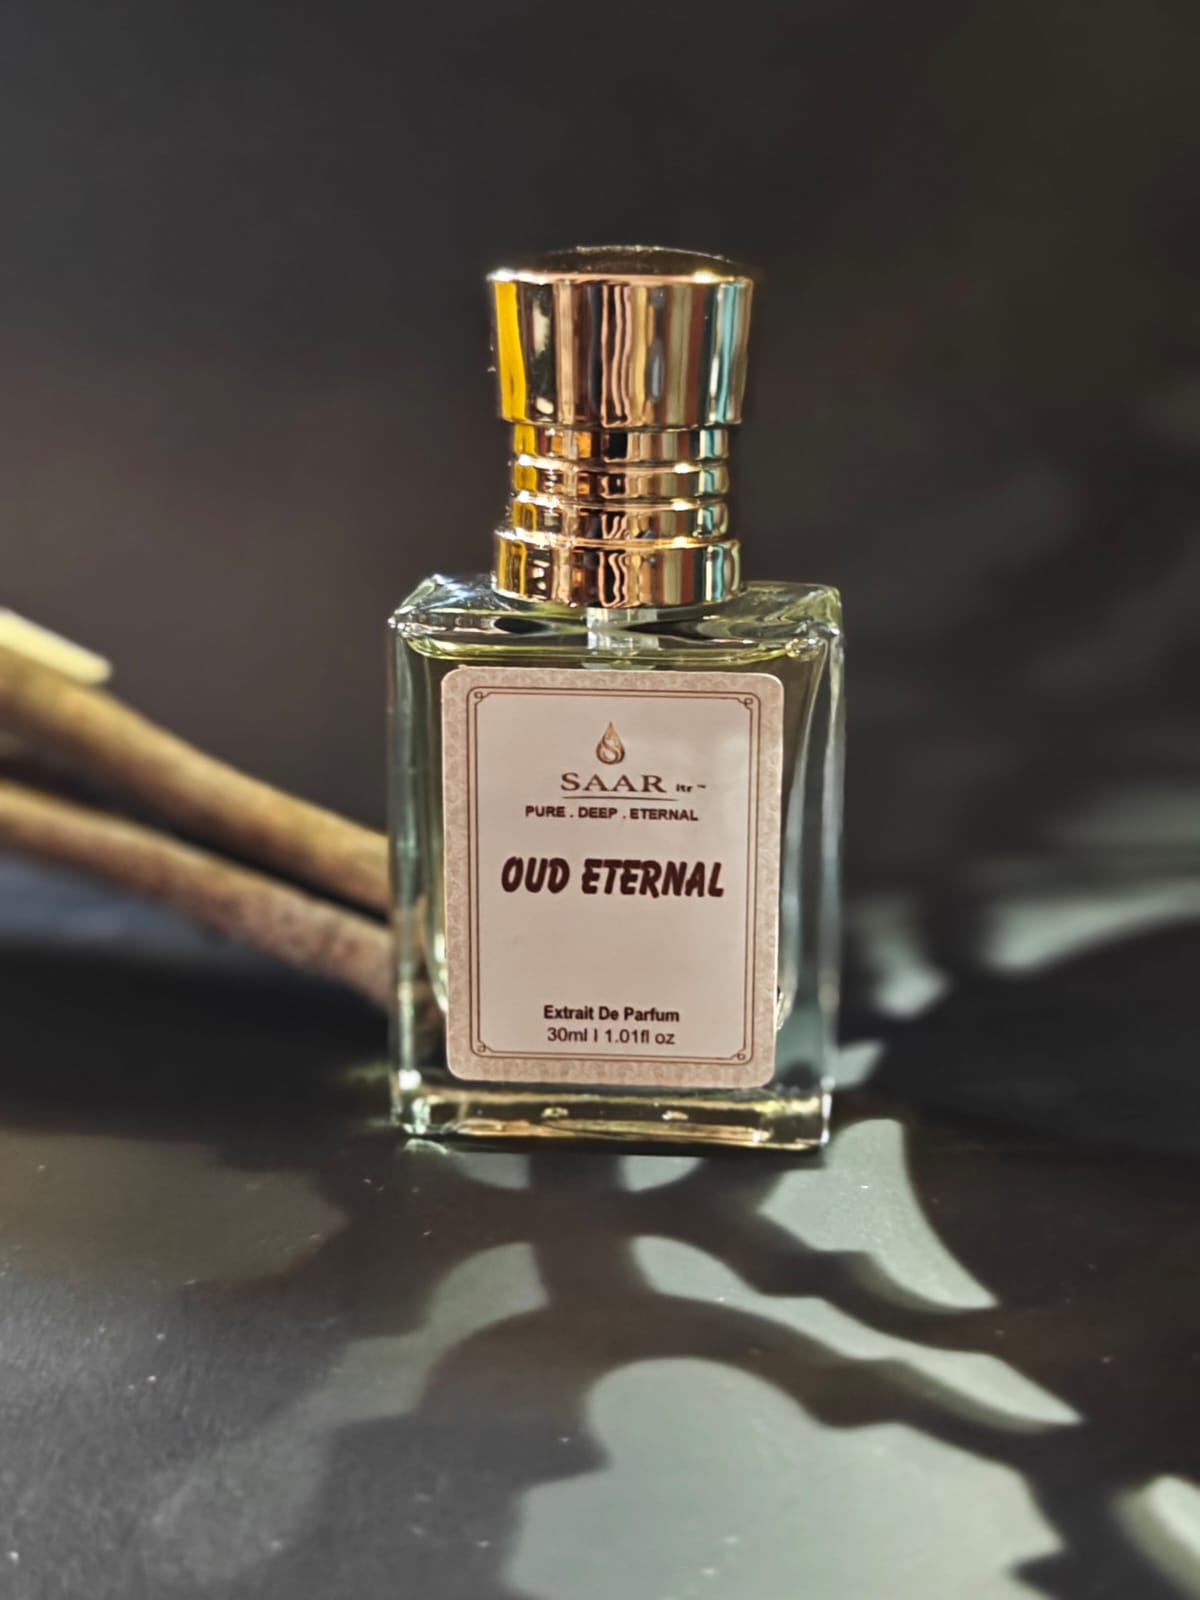
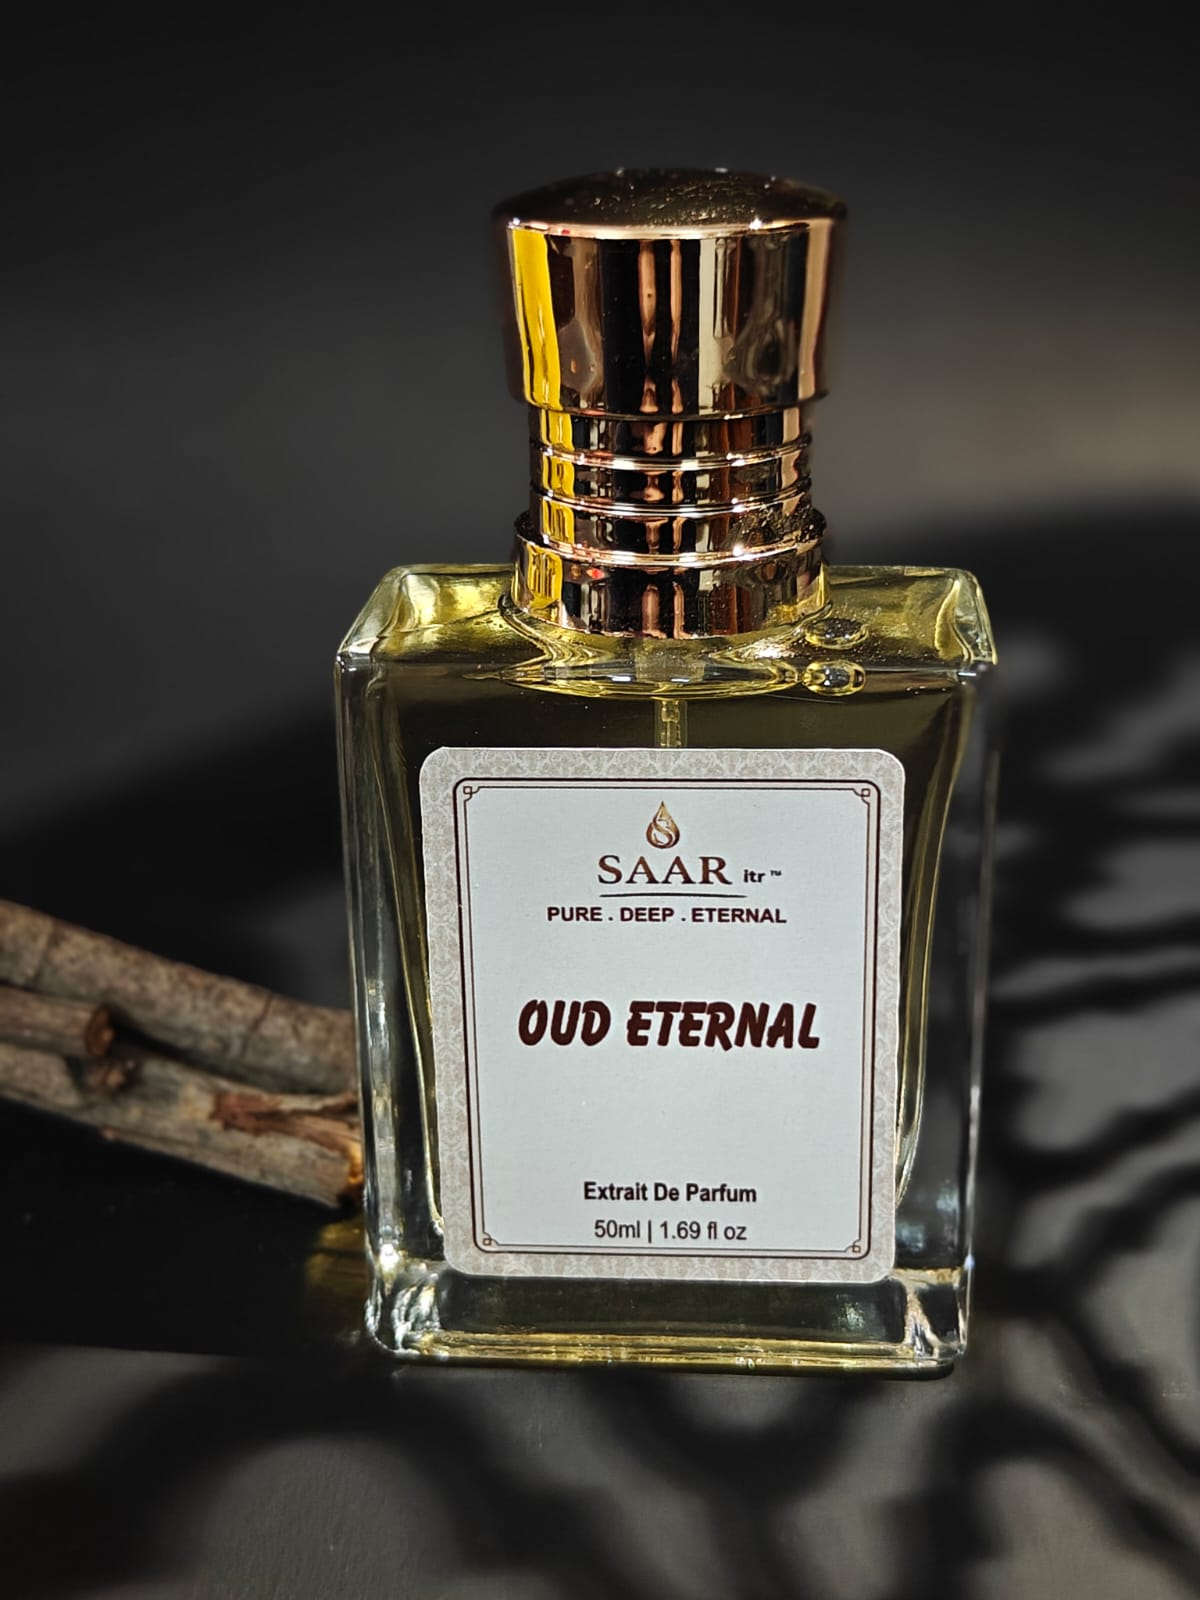
Combo offer images

diff --git a/src/data/ProductDetails.js b/src/data/ProductDetails.js
@@ -1,0 +1,108 @@
+export const PRICE_TIERS = {
+    premium: {
+      "30ml": { price: "₹999", launchPrice: "₹699" },
+      "60ml": { price: "₹1,549", launchPrice: "₹999" },
+      "100ml": { price: "₹2,499", launchPrice: "₹1,899" }
+    },
+    standard: {
+      "30ml": { price: "₹899", launchPrice: "₹599" },
+      "60ml": { price: "₹1,449", launchPrice: "₹899" },
+      "100ml": { price: "₹2,299", launchPrice: "₹1,699" }
+    }
+  };
+
+export const collections = [
+    {
+      id: 1,
+      name: "Blue Edge",
+      description: "Fresh, Warm and Woody",
+      topNode: "Lemon, Mint, Grapefruit ",
+      middleNode: "Ginger, Jasmine",
+      baseNode: "Woody, Sandalwood, Amber",
+      image: saarBlueedge,
+      premium: "yes",
+    },
+    {
+      id: 6,
+      name: "Aqua Aura",
+      description: "Fresh, Floral and Musky",
+      topNode: "Lemon, Bergamot, Fresh Notes ",
+      middleNode: "Jasmine, Rosemary",
+      baseNode: "Musky, Cedar",
+      image: saarAquaImage
+    },
+    {
+      id: 2,
+      name: "Golden Aura",
+      description: "Fruity, Spicy and Woody",
+      topNode: "Orange, Grapefruit, Mint",
+      middleNode: "Cinnamon, Spicy, Rose",
+      baseNode: "Woody, Amber, Leathery",
+      image: saarGoldenaura
+    },
+    {
+      id: 3,
+      name: "Oud Eternal",
+      description: "Floral, Earthy and Musky",
+      topNode: "Rose, Saffron",
+      middleNode: "Patchouli, Sweet Caramel",
+      baseNode: "Oud, Musky, Ambery",
+      image: saarOudeternal,
+      premium: "yes"
+    },
+    {
+      id: 7,
+      name: "Cool Rush",
+      description: "Citrus, Spicy and Woody",
+      topNode: "Fresh Citrus, Green Notes",
+      middleNode: "Spicy, Aromatic",
+      baseNode: "Woody, Musky",
+      image: saarColdRush
+    },
+    {
+      id: 4,
+      name: "Pulse-X",
+      description: "Green, Floral and Musky",
+      topNode: "Citrus, Green",
+      middleNode: "Spicy, Floral",
+      baseNode: "Woody, Musky",
+      image: saarPulse
+    },
+    {
+      id: 5,
+      name: "Amber Drift",
+      description: "Warm, Goumand and Amber",
+      topNode: "Spicy, Cardamon",
+      middleNode: "Sweet, Creamy, Caramel Accord",
+      baseNode: "Amber, Woody, Vanilla",
+      image: saarAmberDrift
+    },
+    {
+      id: 8,
+      name: "Stone Edge",
+      description: "Aquatic, Aromatic and Amber",
+      topNode: "Citrus, Fresh Notes ",
+      middleNode: "Creamy, Sweet",
+      baseNode: "Musky, Ambery",
+      image: saarStoneedge
+    },
+    {
+      id: 9,
+      name: "King Mystique",
+      description: "Green, Floral and Earthy",
+      topNode: "Bergamot, Sandalwood",
+      middleNode: "Lavender, Cardamom, Cypress",
+      baseNode: "Oud, Leathery, Musky",
+      image: saarKingmyst,
+      premium: "yes"
+    },
+    {
+      id: 10,
+      name: "Florė Essence",
+      description: "Citrus, Floral and Woody",
+      topNode: "Peony, Citrus, Orange",
+      middleNode: "Fruity, Floral, Rose",
+      baseNode: "Woody, Sandalwood, Pink Pepper",
+      image: saarFlore
+    }
+  ];

diff --git a/src/components/ProductPrices.jsx b/src/components/ProductPrices.jsx
@@ -1,0 +1,31 @@
+import React, { useState } from 'react';
+import { sizeOptions } from '../data/ProductDetails'; // Import the JSON data
+
+const ProductPrice = () => {
+  const [selectedSize, setSelectedSize] = useState("60ml");
+  const currentProduct = sizeOptions[selectedSize];
+
+  return (
+    <div>
+      {/* Add the select/combo box here */}
+      <select value={selectedSize} onChange={(e) => setSelectedSize(e.target.value)}>
+        {Object.keys(sizeOptions).map(size => (
+          <option key={size} value={size}>{size}</option>
+        ))}
+      </select>
+
+      {/* Your original modified code */}
+      <p className="text-xl font-medium mb-4 flex items-center gap-2">
+        <span className="text-base font-normal">Price for {selectedSize}:</span>
+        {currentProduct.launchPrice ? (
+          <>
+            <span className="line-through decoration-red-500 text-red-500">{currentProduct.price}</span>
+            <span className="text-green-500">{currentProduct.launchPrice}</span>
+          </>
+        ) : (
+          <span>{currentProduct.price}</span>
+        )}
+      </p>
+    </div>
+  );
+};

diff --git a/src/data/comboDetails.js b/src/data/comboDetails.js
@@ -1,0 +1,28 @@
+// src/data/comboDetails.js
+import saar8mlcombo from "@/assets/combo_8ml.jpg";
+import saar3mlcombo from "@/assets/combo_3ml.jpg";
+export const comboCollections = [
+  {
+    id: 101,
+    name: "Gift Set",
+    description: "A curated selection of SAAR fragrances. Set of 4",
+    perfectFor: "Festival | Wedding | Corporate gifting",
+    image: saar8mlcombo,
+    combo: true,
+    // Custom variants just for this combo
+    variants: {
+      "4 x 8ml": { price: "₹1099", launchPrice: "₹679" },
+    }
+  },
+  {
+    id: 102,
+    name: "Discovery Set",
+    description: "Explore the world of SAAR through miniature selection. Set of 5",
+    perfectFor: "Travel | Gifting",
+    image: saar3mlcombo,
+    combo: true,
+    variants: {
+      "5 x 3ml": { price: "₹350", launchPrice: "₹250" },
+    }
+  }
+];

diff --git a/src/components/Navbar.tsx b/src/components/Navbar.tsx
@@ -1,5 +1,9 @@
 import { useState, useEffect } from "react";
 import { Menu, X } from "lucide-react";
+// import Saar_Logo from "../assets/Saar_Logo.jpeg"
+import Saar_Logo from "../assets/saar_logo_noBg.png"
+import Saar_text from "../assets/saar_text_removebg.png"
+
 
 const Navbar = () => {
   const [isScrolled, setIsScrolled] = useState(false);
@@ -33,12 +37,20 @@ const Navbar = () => {
         <div className="flex items-center justify-between">
           {/* Logo */}
           <a href="#" className="flex flex-col items-start">
-            <span className="font-serif text-2xl md:text-3xl font-semibold tracking-wide text-gold-gradient">
-              SAAR
-            </span>
-            <span className="text-xs tracking-[0.4em] text-muted-foreground uppercase -mt-1">
-              itr
-            </span>
+          <a href="#" className="flex items-center">
+  <img 
+    src={Saar_Logo} 
+    alt="SAAR Logo" 
+    className="h-10 w-auto md:h-12" // Adjust height as needed
+  />
+
+<img 
+    src={Saar_text} 
+    alt="SAAR Logo" 
+    className="h-8 w-auto md:h-8" // Adjust height as needed
+  />
+
+</a>
           </a>
 
           {/* Desktop Navigation */}

diff --git a/src/components/ComboCard.tsx b/src/components/ComboCard.tsx
@@ -33,8 +33,10 @@ const ComboCard = ({ product, index }) => {
           </p>
           
           <div className="bg-primary/5 p-3 rounded-sm mb-4">
-            <p className="text-[10px] uppercase tracking-widest text-primary font-bold mb-1">Includes:</p>
-            <p className="text-xs text-foreground/80 italic">{product.topNode} • {product.middleNode}</p>
+         <p className="text-[10px] uppercase tracking-widest text-primary font-bold mb-1"></p>
+
+            <p className="text-[10px] uppercase tracking-widest text-primary font-bold mb-1">Perfect For:</p>
+            <p className="text-xs text-foreground/80 italic"> {product.perfectFor}</p>
           </div>
         </div>
 

diff --git a/src/components/Collections.tsx b/src/components/Collections.tsx
@@ -25,8 +25,8 @@ const PRICE_TIERS = {
     
   },
   standard: {
-    "8ml (mono)": { price: "₹299", launchPrice: "₹200" },
-    "8ml (box)": { price: "₹399", launchPrice: "₹280" },
+    "8ml (mono)": { price: "₹299", launchPrice: "₹199" },
+    "8ml (box)": { price: "₹399", launchPrice: "₹279" },
     "30ml (mono)": { price: "₹699", launchPrice: "₹389" },
     "30ml (box)": { price: "₹799", launchPrice: "₹459" },
     "50ml": { price: "₹1,149", launchPrice: "₹699" },

diff --git a/src/pages/Index.tsx b/src/pages/Index.tsx
@@ -3,6 +3,7 @@ import Hero from "@/components/Hero";
 import Collections from "@/components/Collections";
 import Story from "@/components/Story";
 import Footer from "@/components/Footer";
+import Combos from "@/components/Combo";
 import OfferMarquee from "@/components/OfferMarquee";
 
 const Index = () => {
@@ -14,6 +15,8 @@ const Index = () => {
       </div>
       <Hero />
       <Collections />
+      <Combos/>
+
       <Story />
       <Footer />
     </div>